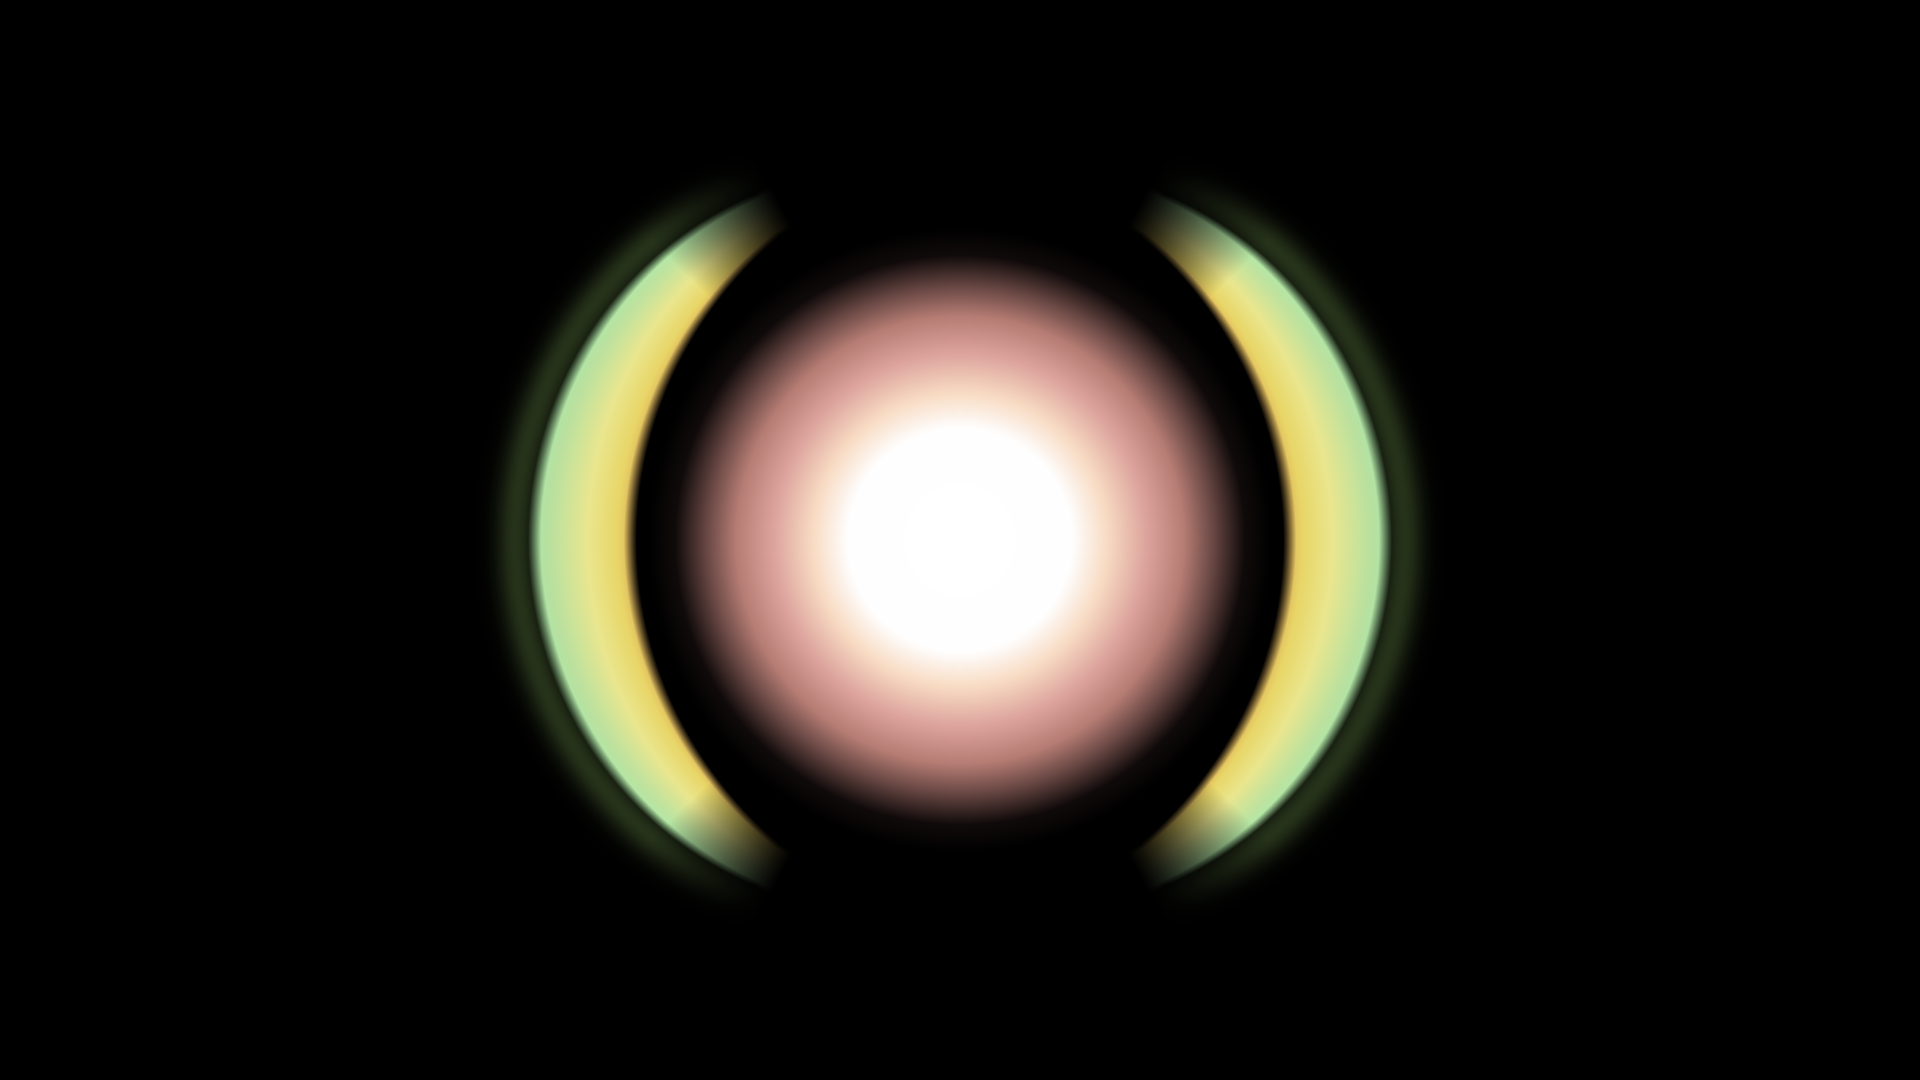
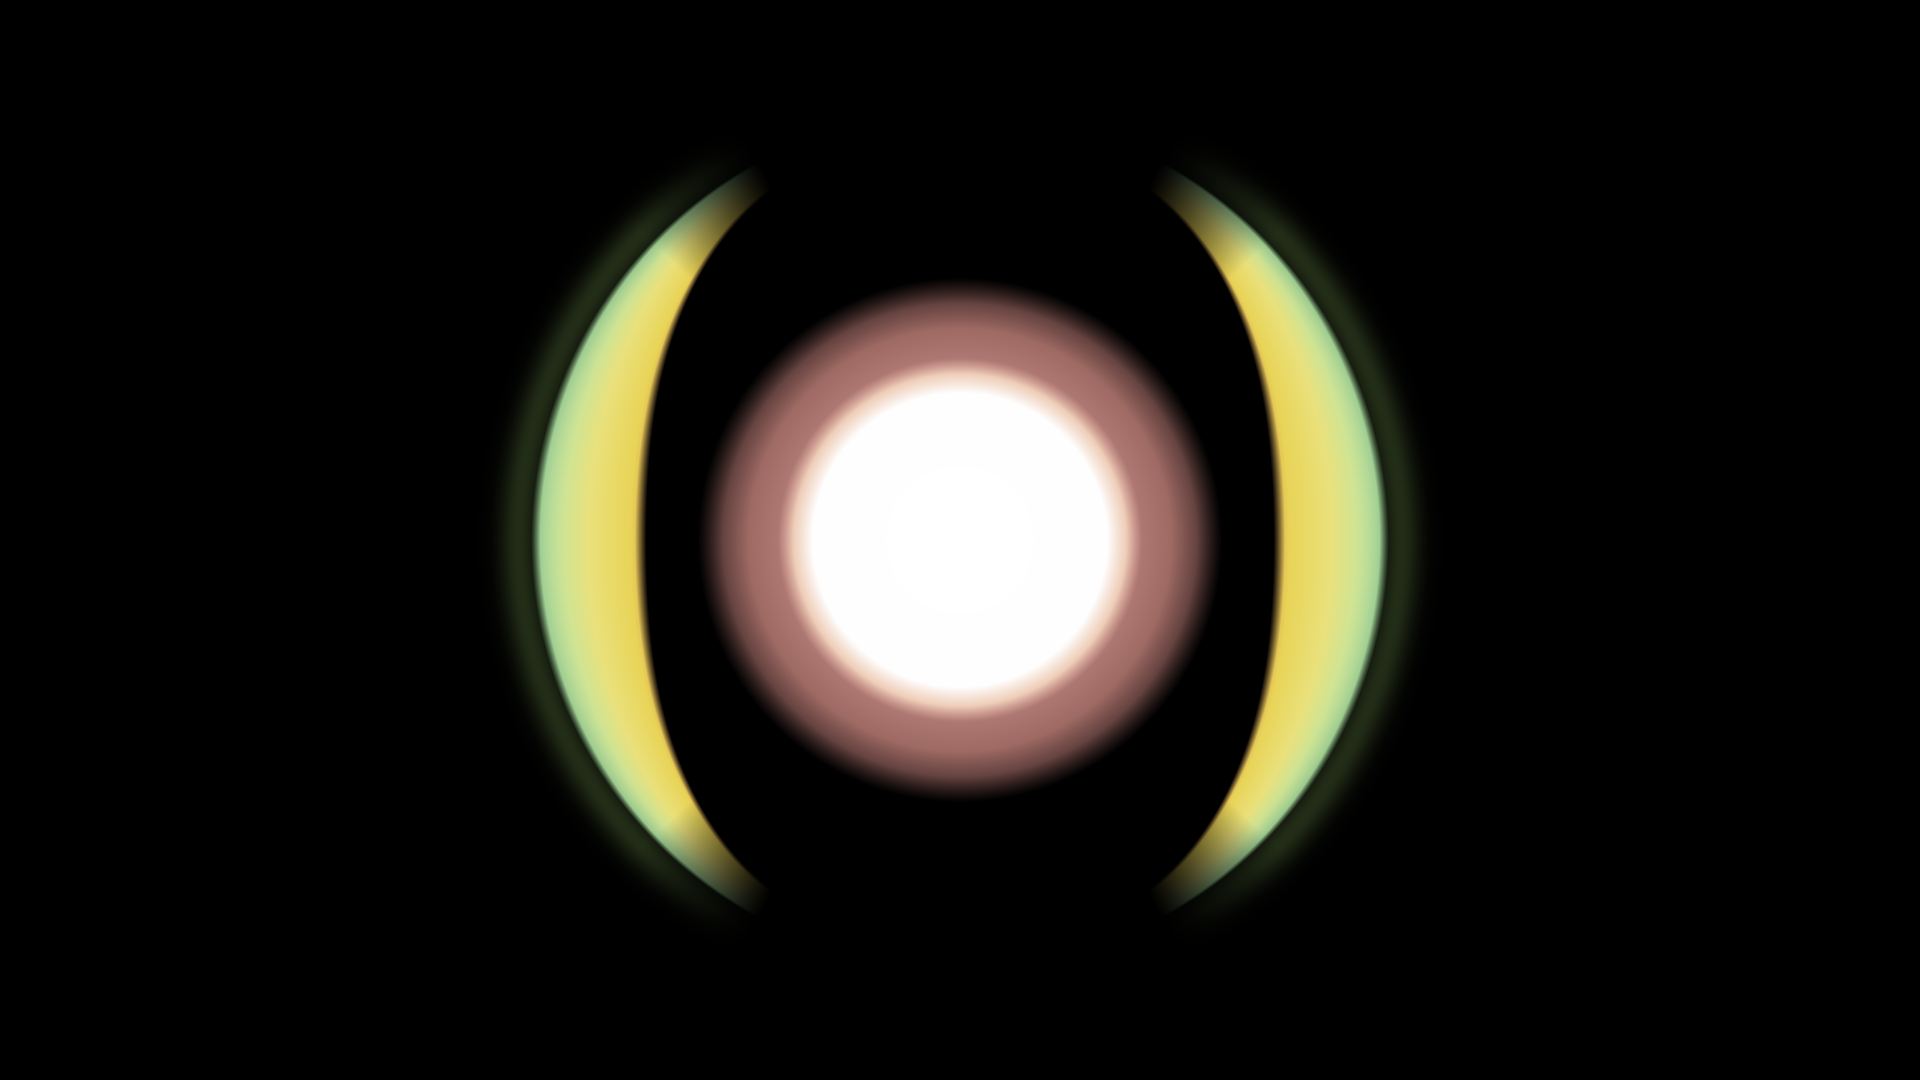
Efekt 10 küre: titanyum beyaz büyüdü, şeftali kırmızısı ince ve yarı saydam, parantezlerin ortası (sarı) kalın
Claude-Session: https://claude.ai/code/session_01E9c1WiJsMc9gXSJZ9D4z6g

Changed region(s): [[0.2812, 0.1528, 0.7188, 0.8556], [0.7188, 0.4583, 0.75, 0.55], [0.25, 0.4583, 0.2812, 0.55]]

diff --git a/arayuz/araclar/efekt10/kure.py b/arayuz/araclar/efekt10/kure.py
@@ -14,29 +14,41 @@ def bant(r0,w): return np.exp(-((R-r0)/w)**2)
 C=np.zeros((H,W,3),np.float32)
 def kat(m,c,a=1.0):   # "uzerine" katman (renk m alfa ile)
     global C; m=np.clip(m*a,0,1)[...,None]; C=C*(1-m)+rk(c)*m
-# radyal renk gecisi (yumusak, cizgisiz): titanyum beyaz -> seftali -> seftali kirmizisi -> saydam
-dur=[(0,"#FFFFFF",1.0),(70,"#FEFEFE",1.0),(92,"#F8DBC3",1.0),(118,"#E1A59F",0.97),(140,"#C98A80",0.9),(158,"#B07872",0.6),(178,"#6A4844",0.15),(195,"#000000",0.0)]
-rr=np.array([d[0] for d in dur],np.float32)
-for c in range(3):
-    C[...,c]=np.interp(R,rr,[rk(d[1])[c]*d[2] for d in dur])
-# parantezler: kureye esmerkezli kalin yaylar (sag-sol), uclara dogru incelir ve solar
+# katmanlar RGBA (on-carpimli "uzerine"): saydam cikti icin gercek alfa tutulur
+Ca=np.zeros((H,W),np.float32)
+def uzerine(col,al):
+    global C,Ca
+    al=np.clip(al,0,1); C=C*(1-al[...,None])+col*al[...,None]; Ca=Ca*(1-al)+al
+def interp(R_,dur):
+    rr=np.array([d[0] for d in dur],np.float32)
+    col=np.stack([np.interp(R_,rr,[rk(d[1])[c] for d in dur]) for c in range(3)],-1); al=np.interp(R_,rr,[d[2] for d in dur]); return col,al
+# seftali kirmizisi: ince bant, yari saydam (arkasi secilir)
+col,al=interp(R,[(0,"#E6A49C",0.8),(100,"#E6A49C",0.8),(112,"#DA9690",0.8),(132,"#CC8880",0.78),(148,"#B87A74",0.55),(164,"#8A5E58",0.0)])
+uzerine(col,al)
+# titanyum beyaz: buyuk, opak; kenari seftaliye yumusak gecer
+col,al=interp(R,[(0,"#FFFFFF",1.0),(92,"#FEFEFE",1.0),(104,"#F8DBC3",0.85),(114,"#EBB8A8",0.0)])
+uzerine(col,al)
+# parantezler: dis kenar sabit yay, ic kenar ortada iceri siskin (sari kisim parantezin icinde -> orta kalin), uclar incelip solar
 yan=np.abs(np.cos(A)); aci=np.degrees(np.arccos(np.clip(yan,0,1)))
 uc=np.clip((62-aci)/18,0,1)**1.2
-mrk=236; yar=34*np.clip(1-(aci/80)**2,0.45,1)
-u=(R-(mrk-yar))/(2*yar)
-renkler=[(0.0,"#F2B860"),(0.18,"#FCE870"),(0.45,"#FEFA9A"),(0.7,"#D8F6A8"),(1.0,"#A8E8B0")]   # ic: turuncu-sari -> sari -> acik yesil -> yesil (dis)
+dis_r=268; kal=20+52*np.clip(np.cos(np.radians(aci*1.45)),0,1)**1.3           # orta ~72, uclar ~20
+ic_r=dis_r-kal
+u=(R-ic_r)/kal
+renkler=[(0.0,"#F2B860"),(0.14,"#FCE65E"),(0.5,"#FEF486"),(0.72,"#E2F8A0"),(1.0,"#A8E8B0")]   # ic genis sari -> acik yesil -> yesil (dis)
 uu=np.clip(u,0,1); col=np.stack([np.interp(uu,[q[0] for q in renkler],[rk(q[1])[c] for q in renkler]) for c in range(3)],-1)
-op=np.clip(np.minimum(u,1-u)/0.12,0,1)*uc*0.92                            # yumusak kenar, hafif saydam
-C=C*(1-op[...,None])+col*op[...,None]
-dis=np.exp(-((R-(mrk+yar+8))/12)**2)*uc*0.45                              # dis zeytin-yesil hale
-C=C+(rk("#55703A")*dis[...,None])
+op=np.clip(np.minimum(u/0.1,(1-u)/0.08),0,1)*uc*0.92
+uzerine(col,op)
+uzerine(np.broadcast_to(rk("#55703A"),C.shape),np.exp(-((R-(dis_r+8))/12)**2)*uc*0.4)       # dis zeytin-yesil hale
 os.makedirs(K,exist_ok=True)
-img=(np.clip(C,0,1)*255).round().astype(np.uint8)
+img=(np.clip(C,0,1)*255).round().astype(np.uint8)                      # siyah fon uzerinde (C on-carpimli)
 Image.fromarray(img).save(os.path.join(K,"kure.png"))
-a=img.max(2); rgb=np.where(a[...,None]>0,(img.astype(np.float32)*255/np.maximum(a,1)[...,None]).clip(0,255),0).astype(np.uint8)
-Image.fromarray(np.dstack([rgb,a])).save(os.path.join(K,"kure_saydam.png"))
+rgb=(np.clip(C/np.maximum(Ca,1e-4)[...,None],0,1)*255).round().astype(np.uint8); al=(np.clip(Ca,0,1)*255).round().astype(np.uint8)
+Image.fromarray(np.dstack([rgb,al])).save(os.path.join(K,"kure_saydam.png"))
+# zemin uzerinde onizleme (arkasi secilir mi): fotograftaki toprak rengi
+zem=np.array([0x86,0x6C,0x5E],np.float32)/255; zg=(np.clip(C+zem*(1-Ca[...,None]),0,1)*255).astype(np.uint8)
 # onizleme: fotograf (kirpilmis) | yeni
 ref=Image.open(os.path.join(os.path.expanduser("~"),".claude","uploads","7667fcb8-b488-59d0-b1d8-f55ffb36b68a","0d1e98a9-image.jpg")).convert("RGB").crop((638-420,440-330,638+420,440+330)).resize((960,754))
 new=Image.fromarray(img).crop((960-672,540-528,960+672,540+528)).resize((960,754))
-o=Image.new("RGB",(1920,754)); o.paste(ref,(0,0)); o.paste(new,(960,0)); o.save(os.path.join(ONZ,"efekt10_kure.png"))
+nz=Image.fromarray(zg).crop((960-672,540-528,960+672,540+528)).resize((960,754))
+o=Image.new("RGB",(2880,754)); o.paste(ref,(0,0)); o.paste(nz,(960,0)); o.paste(new,(1920,0)); o.save(os.path.join(ONZ,"efekt10_kure.png"))
 print("tamam")
